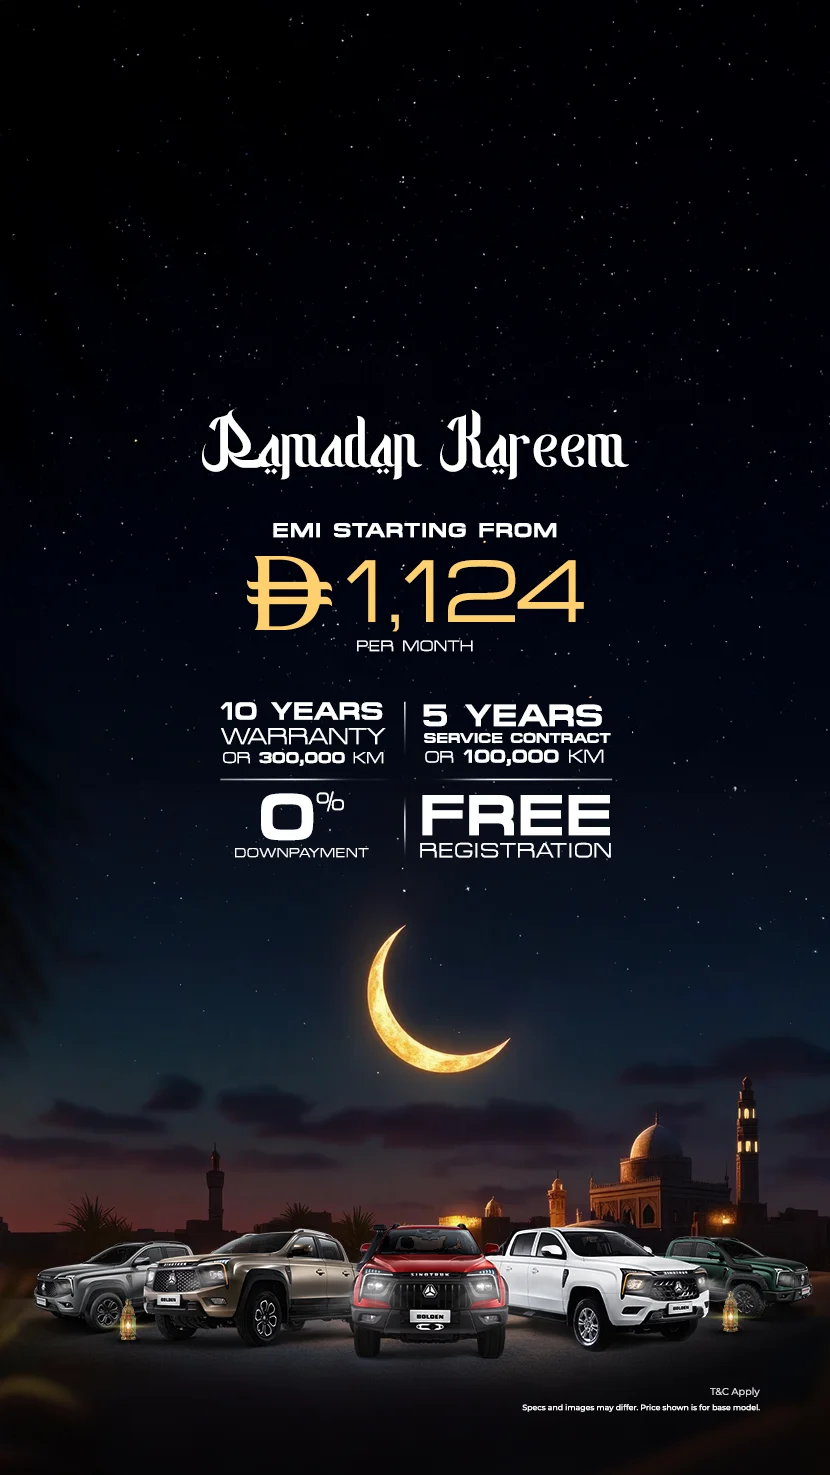
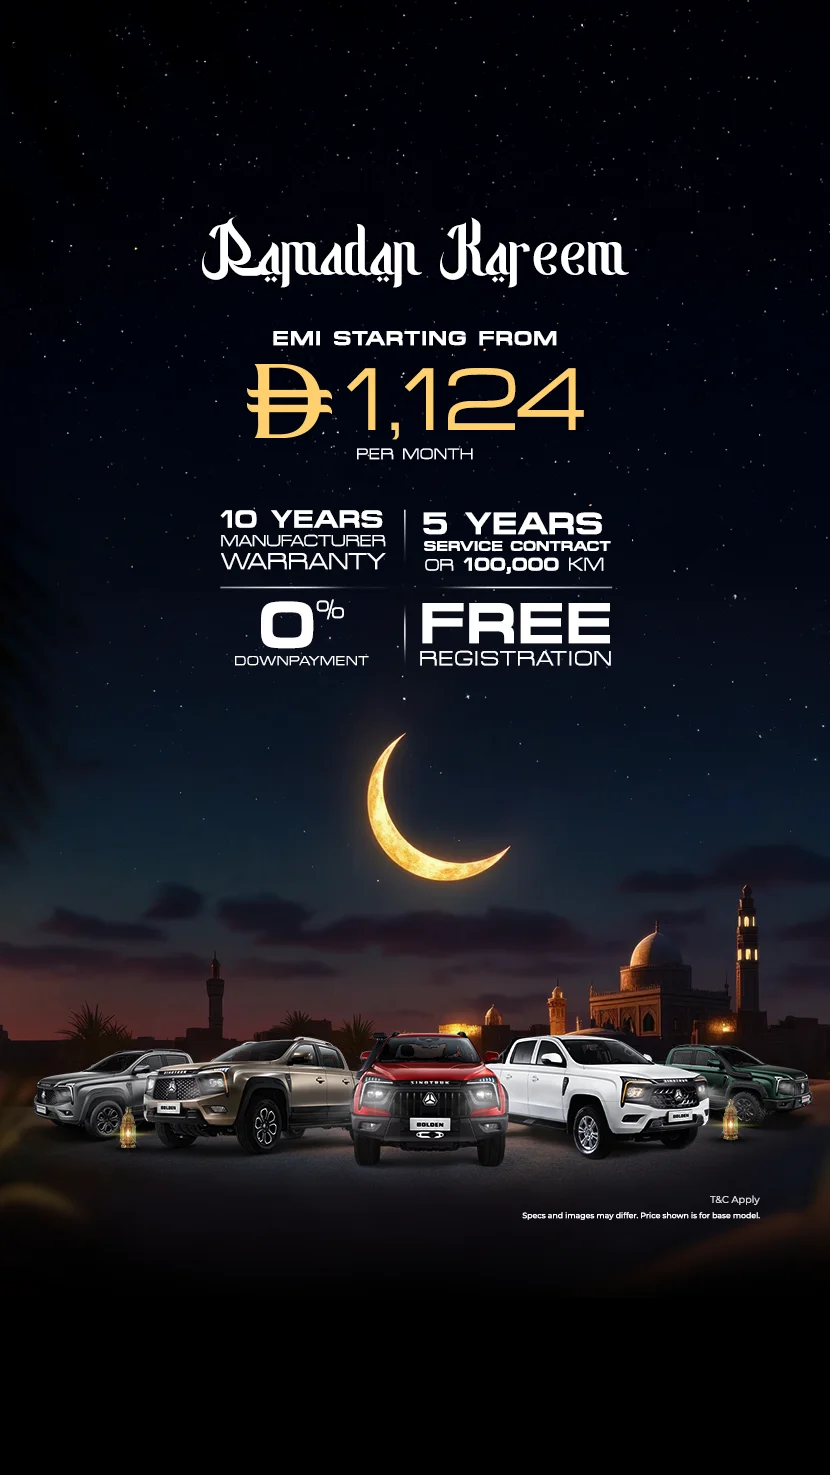
update 67

diff --git a/app/(landingpages)/bolden-uae/page.js b/app/(landingpages)/bolden-uae/page.js
@@ -9,7 +9,7 @@ import LandingPageCommon from "@/components/form/landingpagecommon";
 export const HERO_SLIDES = [
   {
     desktop: "/assets/hero/ramadan/ramadan-kareem-bolden-landing.webp", //desktop: "/assets/hero/bolden-landing.webp",
-    mobile:  "/assets/hero/ramadan/ramadan-kareem-bolden-landing-mobile.webp", //    /assets/hero/bolden-landing-m.webp
+    mobile:  "/assets/hero/ramadan/ramadan-kareem-bolden-uae-mobile.webp", //    /assets/hero/bolden-landing-m.webp
     title:   "",
     subtitle:"",
     align:   "center",

diff --git a/app/(landingpages)/bolden-uae-ar/page.js b/app/(landingpages)/bolden-uae-ar/page.js
@@ -11,7 +11,7 @@ import AtmCards from "@/components/pages/AtmCards";
 export const HERO_SLIDES = [
   {
     desktop: "/assets/hero/ramadan/ramadan-kareem-bolden-landing-ar.webp", //desktop: "/assets/hero/bolden-landing.webp",
-    mobile:  "/assets/hero/ramadan/ramadan-kareem-bolden-landing-mobile-ar.webp", //    /assets/hero/bolden-landing-m.webp
+    mobile:  "/assets/hero/ramadan/ramadan-kareem-bolden-uae-mobile-ar.webp", //    /assets/hero/bolden-landing-m.webp
     title:   "",
     subtitle:"",
     align:   "center",

diff --git a/data/offers-ar.js b/data/offers-ar.js
@@ -18,7 +18,7 @@ const OFFERS = [
     subtitle: [
     "السعر يبدأ من ٧٠,٠٠٠ درهم إماراتي",
     "ضمان المصنع لمدة 10 سنوات",
-    "عقد صيانة لمدة ٥ سنوات أو ٣٠٠,٠٠٠ كم",
+    "عقد صيانة لمدة ٥ سنوات أو ١٠٠,٠٠٠ كم",
     "تسجيل مجاني",
     "دفعة أولى ٠٪ (تطبق الشروط والأحكام)"
   ],
